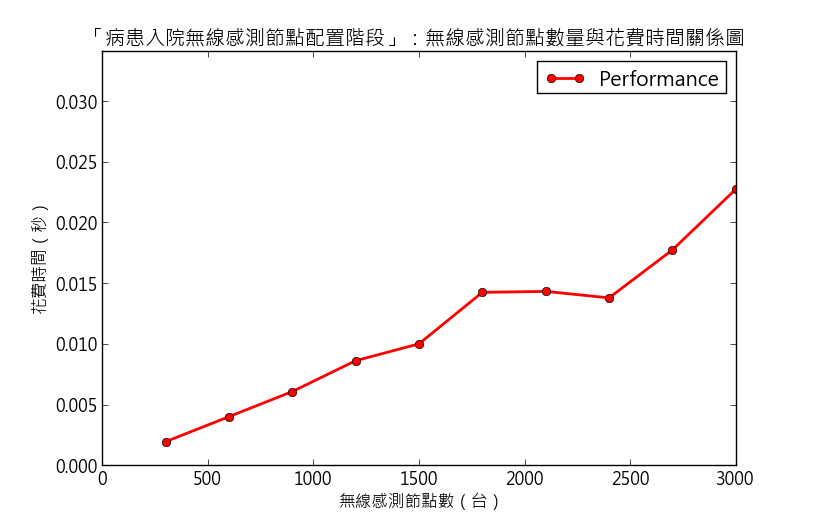
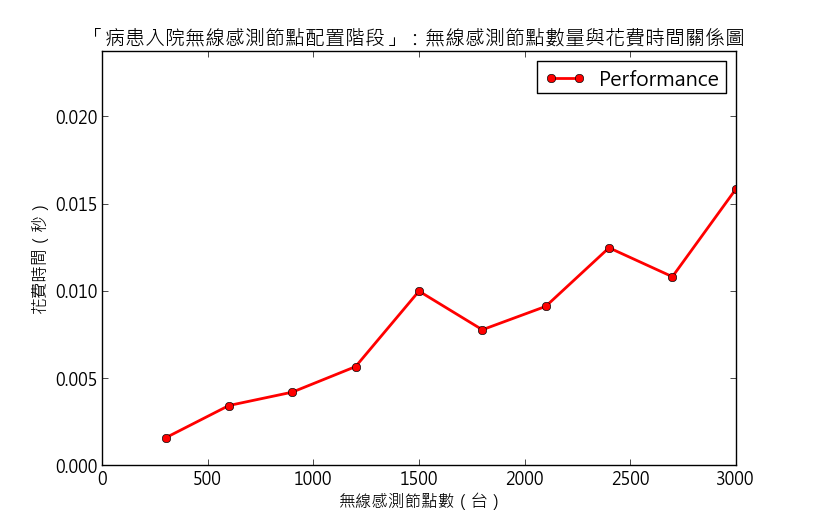
up

diff --git a/medical_server.py b/medical_server.py
@@ -174,10 +174,6 @@ def gen_phinfo_M():
 
 # phinfo_list: 輸入生理資訊列表
 def WSN_daily_collect_info_process(crypt_type=None):
-	DATABASE = list()
-	
-	def _save(i, data):
-		DATABASE.insert(i, data)
 
 	# 樓層匯聚節點開始要求各節點回報生理資訊
 	for w in range(n['floors']):
@@ -193,7 +189,7 @@ def WSN_daily_collect_info_process(crypt_type=None):
 				print 'Error %s at %d(%d),%d(%d)' % (crypt_type, w+1, n['floors'], i+1, n['wsns'][w])
 
 			if ( cmp( MAC(_SKx[i], d['encrypted'], crypt_type, 'decrypt'), d['plaintext'] ) == 0 ):
-				_save(i, d)
+				pass
 
 def WSN_MAC_test(i, SK, data, crypt_type=None):
 	Mp = 'MSG:PHYDATA_REQUEST TEST'

diff --git a/README.md b/README.md
@@ -22,14 +22,15 @@ PyCrypto (Windows)
 
 
 ### 測試資料：
-	目標金鑰數上限 6000
-	每回產生幾組金鑰 1200
-	醫療大樓樓層總數 15
-	無線感測節點總數 1000
+	醫療大樓樓層總數 10
+	產生金鑰數上限 3000
+	每回增加幾組金鑰 500
+	產生無線感測節點上限 3000
+	請輸入每回增加多少台節點 300
 
 
-![](http://i.imgur.com/wovSLhr.png)
+![](http://i.imgur.com/3qUUab2.png)
 
-![](http://i.imgur.com/JnjoFwb.png)
+![](http://i.imgur.com/7N0YhDo.png)
 
-![](http://i.imgur.com/eTIQLfB.png)
+![](http://i.imgur.com/rGIU77H.png)
